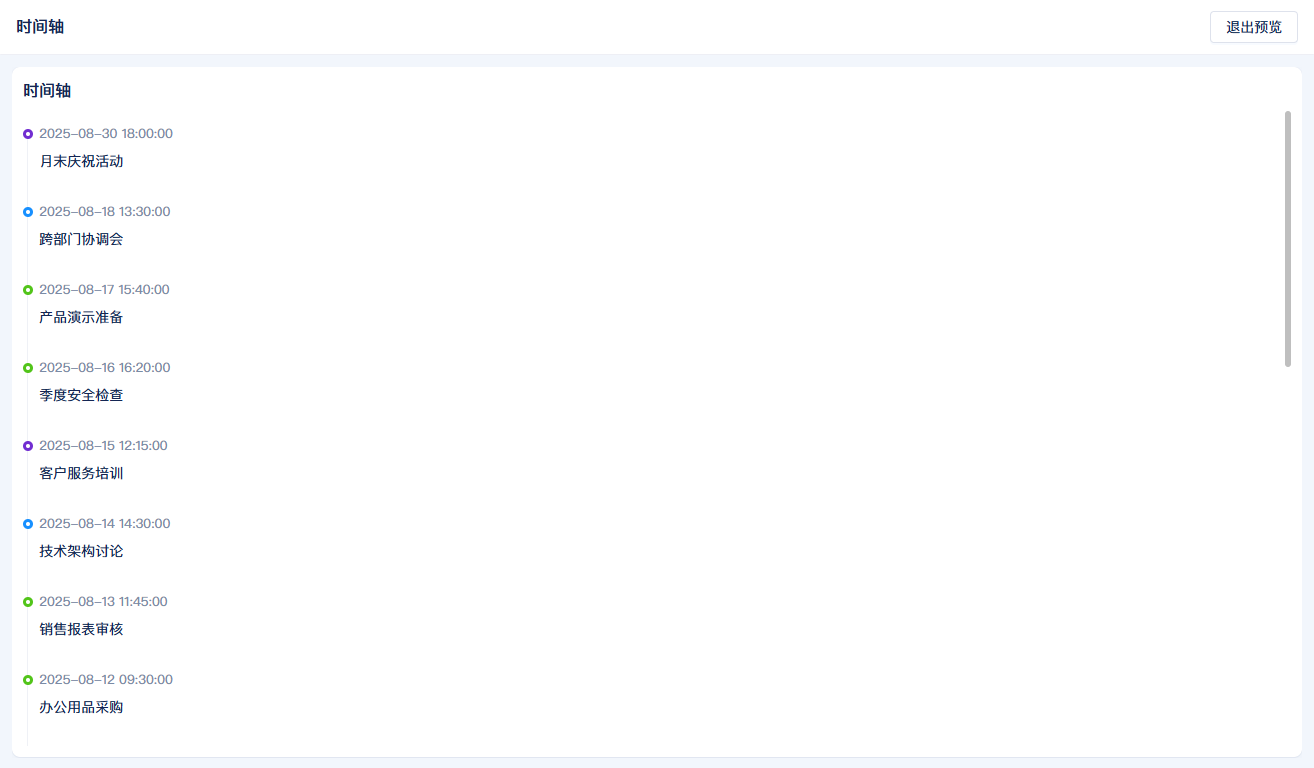
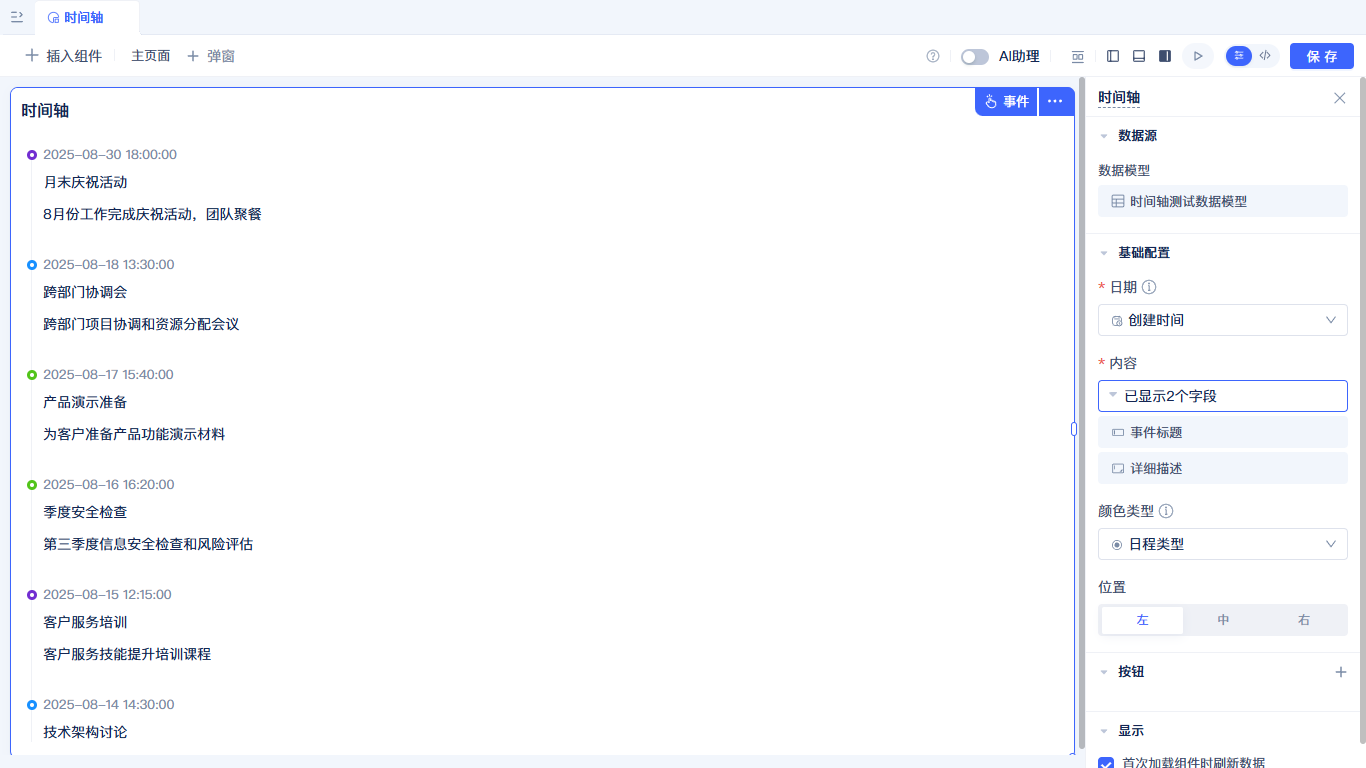
docs: 完善时间管理组件甘特图详细内容
- 精炼甘特图组件简介，结合时间轴和日历特点
- 补充甘特图完整的配置说明文档
- 新增进度、层级关系、先后关系等功能说明
- 添加多时间视图切换、拖拽操作等交互功能
- 完善按钮配置、数据加载等详细说明
- 新增相关图片资源和演示动图

🤖 Generated with [Claude Code](https://claude.ai/code)

diff --git a/docs/devguide/新手指南/在页面中使用功能组件/时间管理组件.md b/docs/devguide/新手指南/在页面中使用功能组件/时间管理组件.md
@@ -13,7 +13,7 @@ sidebar_position: 9
 
 ### 数据模型准备及组件创建
 ![模型展示](./img/9/日历-模型展示.png)
-日历组件的数据模型，需要配置开始时间、结束时间及标题。开始时间和结束时间配置的字段类型项必须是日期/日期时间，标题配置项的字段类型必须是单行文本/手机/流水号/身份证/选项单选/下拉单选/车牌号/自增整数，日程类型配置项的字段类型必须是下拉框单选/选项组单选。准备好对应配置项的字段，即可到可视化页面编辑器中创建日历组件。
+日历组件的数据模型，需要配置开始时间、结束时间及标题。开始时间和结束时间配置项的字段类型项必须是日期/日期时间，标题配置项的字段类型必须是单行文本/手机/流水号/身份证/选项单选/下拉单选/车牌号/自增整数，日程类型配置项的字段类型必须是下拉框单选/选项组单选。准备好对应配置项的字段，即可到可视化页面编辑器中创建日历组件。
 :::warning
 开始时间和结束时间配置项必须是同一种类型，即全是日期或日期时间。
 :::
@@ -81,58 +81,108 @@ sidebar_position: 9
 ![组件设置](./img/9/时间轴-效果.png)
 
 ### 数据模型准备及组件创建
-![模型展示](./img/9/日历-模型展示.png)
+![模型展示](./img/9/时间轴-模型.png)
+时间轴组件的数据模型，需要配置日期和内容。日期配置项的字段类型项必须是日期/日期时间，内容配置项的字段类型没有限制，颜色类型配置项的字段类型必须是下拉框单选/选项组单选。准备好对应配置项的字段，即可到可视化页面编辑器中创建时间轴组件。
 
-**覆盖特性：**
+![组件创建](./img/9/时间轴-组件创建.gif)
+在可视化页面编辑器中选择时间轴组件，将时间轴组件拖拽到页面画布中，会弹出选择数据模型弹窗，在弹窗中配置数据模型，点击确定，在右侧组件配置日期、内容，这两个配置项是必填配置。
 
-*   选择一个日期/日期时间类型的模型字段作为时间轴中的日期
+### 基础配置
+![组件设置](./img/9/时间轴-组件设置.png)
+可视化组件配置界面，主要分为预览区和配置区，预览区会实时显示组件当前配置的效果。时间轴组件显示的文字对应内容配置项，内容配置项可以配置多个字段，多个字段可以拖拽排序，组件中文字的先后顺序由日期配置项控制，同时日期也会显示在时间轴上。
 
-*   配置在时间轴中显示的模型字段
+### 颜色类型
+![日程类型展示](./img/9/时间轴-颜色类型.gif)
+配置颜色类型，可以改变时间轴上节点的颜色，颜色类型对应的字段颜色，在数据模型配置中修改。
 
-*   选择一个下拉框单选或选项组单选类型的模型字段作为颜色类型
+### 位置
+![日程类型展示](./img/9/时间轴-位置.gif)
+位置配置项支持左/中/右三种位置，默认为左，修改位置会改变组件在渲染容器中的位置。
 
-*   配置时间轴位于模型信息的左侧/中间/右侧三种布局方式
+### 按钮配置
+![按钮位置](./img/9/时间轴-按钮位置.png)
+时间轴组件的按钮区域分为两部分，组件顶部的工具栏左侧以及组件顶部工具栏右侧。
 
-*   添加时间轴工具栏左右侧按钮并编写点击事件逻辑
+![按钮配置颜色等](./img/9/时间轴-按钮配置颜色等.png)
+按钮支持配置名称，图标，类型，颜色。
 
-*   禁用或启用首次加载时间轴时刷新数据
+![按钮事件](./img/9/时间轴-按钮事件.png)
+按钮支持新增、删除、修改、排序，工具栏按钮如果数量过多支持折将按钮叠到"更多"中。每添加一个按钮，就会在事件面板中生成一个按钮事件，开发者可以自己编辑事件逻辑。当事件过多不好定位时，可以点击按钮上的"小手"图标快速打开当前按钮的事件面板。
 
-**内容要点：**
-
-*   时间轴组件的数据展示
-
-*   时间相关组件的配置技巧
+### 首次加载组件时刷新数据
+下图展示开启"首次加载组件时刷新数据"配置，组件在页面中渲染后会主动加载数据，关闭"首次加载组件时刷新数据"配置，组件渲染后不会主动加载数据。
+![首次加载对比](./img/9/时间轴-首次加载对比.gif)
+:::tip
+关闭"首次加载组件时刷新数据"配置，可配合其他事件主动调用组件的刷新。如下图：在可视化页面编辑器中，添加一个按钮组件，打开按钮事件面板，在"按钮点击后"选项卡配置时间轴组件的刷新函数，可以实现点击按钮后，时间轴组件加载数据。
+:::
+![主动加载数据](./img/9/时间轴-主动加载数据.png)
 
 ## 甘特图
 
-**覆盖特性：**
+以时间轴形式展示数据，集成日历的多时间视图功能，可视化任务时间线、进度和层级依赖关系。支持拖拽调整时间、多维度视图切换（日/周/月/季/年）等交互操作，适用于项目管理、任务协调、资源规划及进度监控等场景。
 
-*   选择一个模型字段作为甘特图数据项标题
+![组件设置](./img/9/甘特图-效果.png)
 
-*   分别选择一个日期时间字段作为甘特图数据项的开始和结束时间
+### 数据模型准备及组件创建
+![模型展示](./img/9/甘特图-模型.png)
+甘特图组件的数据模型，需要配置开始时间、结束时间及标题。开始时间和结束时间配置项的字段类型必须是日期/日期时间，标题配置项的字段类型支持除了关联字段和子表的其他所有类型。准备好对应配置项的字段，即可到可视化页面编辑器中创建时间轴组件。
+:::tip
+如果需要显示任务的进度 ，要配置进度配置项，它只支持百分比字段类型。层级展示要配置一个关联当前数据模型的关联字段。任务的先后顺序，也要配置一个关联当前数据模型的关联字段。列表中显示更多列的信息，其类型需为单行文本/流水号/身份证/手机/车牌号/自增整数/选项单选/下拉单选/数字/百分比/金额/日期/日期时间/时间中的类型，如果想在任务条的浮层中显示更多信息，类型同列表中显示的字段类型。
+:::
 
-*   选择一个百分比类型的模型字段作为甘特图中事项的进度
+![组件创建](./img/9/甘特图-组件创建.gif)
+在可视化页面编辑器中选择甘特图组件，将甘特图组件拖拽到页面画布中，会弹出选择数据模型弹窗，在弹窗中配置数据模型，点击确定，在右侧组件配置标题，开始时间、结束时间，这三个配置项是必填配置。
 
-*   分别选择一个关联数据类型的模型字段作为甘特图中事项的层级关系和先后关系字段
+### 基础配置
+![组件设置](./img/9/甘特图-组件设置.png)
+可视化组件配置界面，主要分为预览区和配置区，预览区会实时显示组件当前配置的效果。甘特图组件的标题会显示在左侧列表中和任务条上，开始时间和结束时间会控制任务条的长度。
 
-*   配置甘特图的默认时间视图（年/季/月/周/日）
+### 进度
+![进度](./img/9/甘特图-进度.png)
+进度配置项被配置后，会体现在甘特图的任务条中，任务条长度根据开始时间和结束时间进行计算，整体背景颜色较浅，进度所占百分比的长度颜色较深，任务条中还会显示具体的进度数值。
 
-*   配置甘特图中显示的模型字段列表并设置顺序
+### 层级关系
+![层级关系](./img/9/甘特图-层级关系.png)
+层级关系字段配置后，甘特图将依次从最顶层开始展示，并会在列表的右侧显示一个"三角"图标，用于展开子层级。在获取第一层数据时，默认会添加一个过滤条件，即层级关系对应的字段为空，表示是顶层数据。点击"三角"图标，会获取当前层级关联的子层级数据，并展开。
 
-*   配置甘特图中浮层上显示的数据字段并设置顺序
+### 先后关系
+![层级关系](./img/9/甘特图-先后关系.png)
+先后关系字段配置后，会在任务条中出现关系线，用来表示任务之间的先后顺序。
 
-*   添加甘特图工具栏按钮并编写点击事件逻辑
+### 日/周/月/季/年视图切换
+![切换视图](./img/9/甘特图-视图切换.gif)
+甘特图组件支持五种不同的视图：日/周/月/季/年，可根据任务实际的时间范围选择适合的视图，同时在组件的右上角提供了快速切换不同视图的下拉框。
 
-*   添加甘特图数据浮层上的操作按钮并编写事件逻辑
+### 列表显示字段
+![列表显示字段](./img/9/甘特图-列表显示字段.png)
+列表显示字段用于配置列表中显示哪些字段，默认为空，当未配置列表显示字段配置项时，列表会显示标题字段，配置列表显示字段配置项后，列表会按配置的字段进行展示，支持多个字段，支持拖拽排序。
 
-*   配置工具栏和操作列按钮收至更多或直接显示
+### 浮层显示字段
+![浮层显示字段](./img/9/甘特图-浮层显示字段.png)
+浮层显示字段用于配置鼠标经过任务条时，浮层中显示哪些字段，默认为空，当未配置浮层显示字段配置项时，浮层会显示标题字段，配置浮层显示字段配置项后，浮层会按配置的字段进行展示，支持多个字段，支持拖拽排序。
 
-*   设置是否允许通过拖拽修改结束日期
+### 按钮配置
+![按钮位置](./img/9/甘特图-按钮位置.png)
+甘特图组件的按钮区域分为两部分，甘特图组件顶部的工具栏按钮以及浮层中底部的操作按钮。
 
-*   设置是否允许添加新的排期
+![按钮配置颜色等](./img/9/甘特图-按钮配置颜色等.png)
+按钮支持配置名称，图标，类型，颜色。操作按钮还额外支持配置过滤条件，只有满足过滤条件的数据才会显示在操作栏按钮中。
 
-**内容要点：**
+![按钮事件](./img/9/甘特图-按钮事件.png)
+按钮支持新增、删除、修改、排序，工具栏按钮如果数量过多支持折将按钮叠到"更多"中。每添加一个按钮，就会在事件面板中生成一个按钮事件，开发者可以自己编辑事件逻辑。当事件过多不好定位时，可以点击按钮上的"小手"图标快速打开当前按钮的事件面板。
 
-*   项目管理中甘特图的使用
+### 首次加载组件时刷新数据
+下图展示开启"首次加载组件时刷新数据"配置，组件在页面中渲染后会主动加载数据，关闭"首次加载组件时刷新数据"配置，组件渲染后不会主动加载数据。
+![首次加载对比](./img/9/甘特图-首次加载刷新.gif)
+:::tip
+关闭"首次加载组件时刷新数据"配置，可配合其他事件主动调用组件的刷新。如下图：在可视化页面编辑器中，添加一个按钮组件，打开按钮事件面板，在"按钮点击后"选项卡配置甘特图组件的刷新函数，可以实现点击按钮后，甘特图组件加载数据。
+:::
+![主动加载数据](./img/9/甘特图-主动加载数据.png)
 
-*   甘特图的配置和交互
+### 拖拽日期进度
+![拖拽](./img/9/甘特图-拖拽.gif)
+如果勾选"拖拽日期进度"，拖拽任务条两端可单独修改开始时间或结束时间，也可以调整整个任务条，同时修改开始时间和结束时间，数据会自动同步到数据模型。在事件面板中的"拖拽日期后"选项卡中，开发者可以自己编辑事件逻辑，如图：配置了全局提示函数，当拖拽结束时会弹出一个"hello world"。
+
+### 允许添加排期
+![新建日程](./img/9/甘特图-添加排期.gif)
+如果勾选"允许添加排期"，当一条任务没有设置开始或结束时间，鼠标经过当前数据会出现一个加号，点击后会更新当前任务的开始时间和结束时间为当前选择的时间，数据会自动同步到数据模型。
